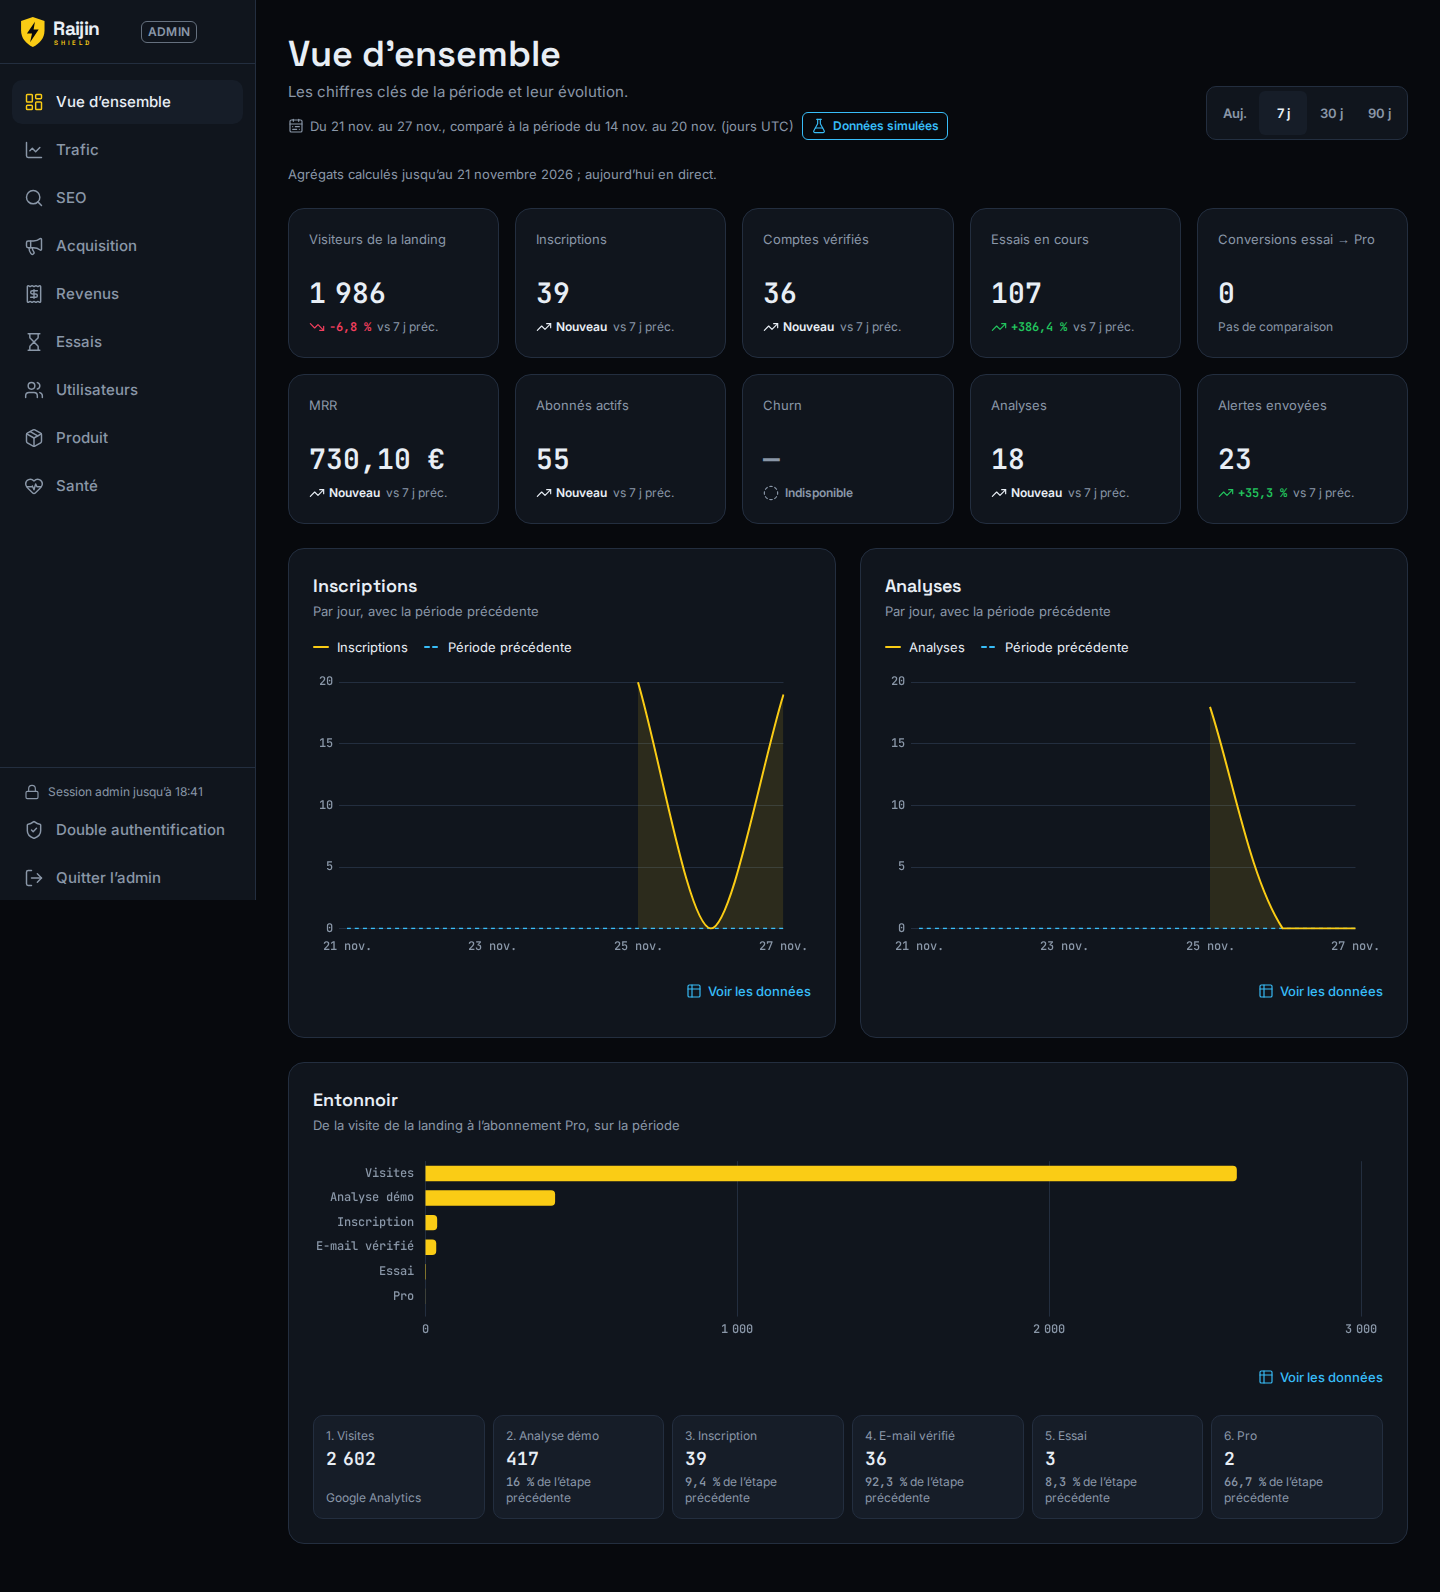
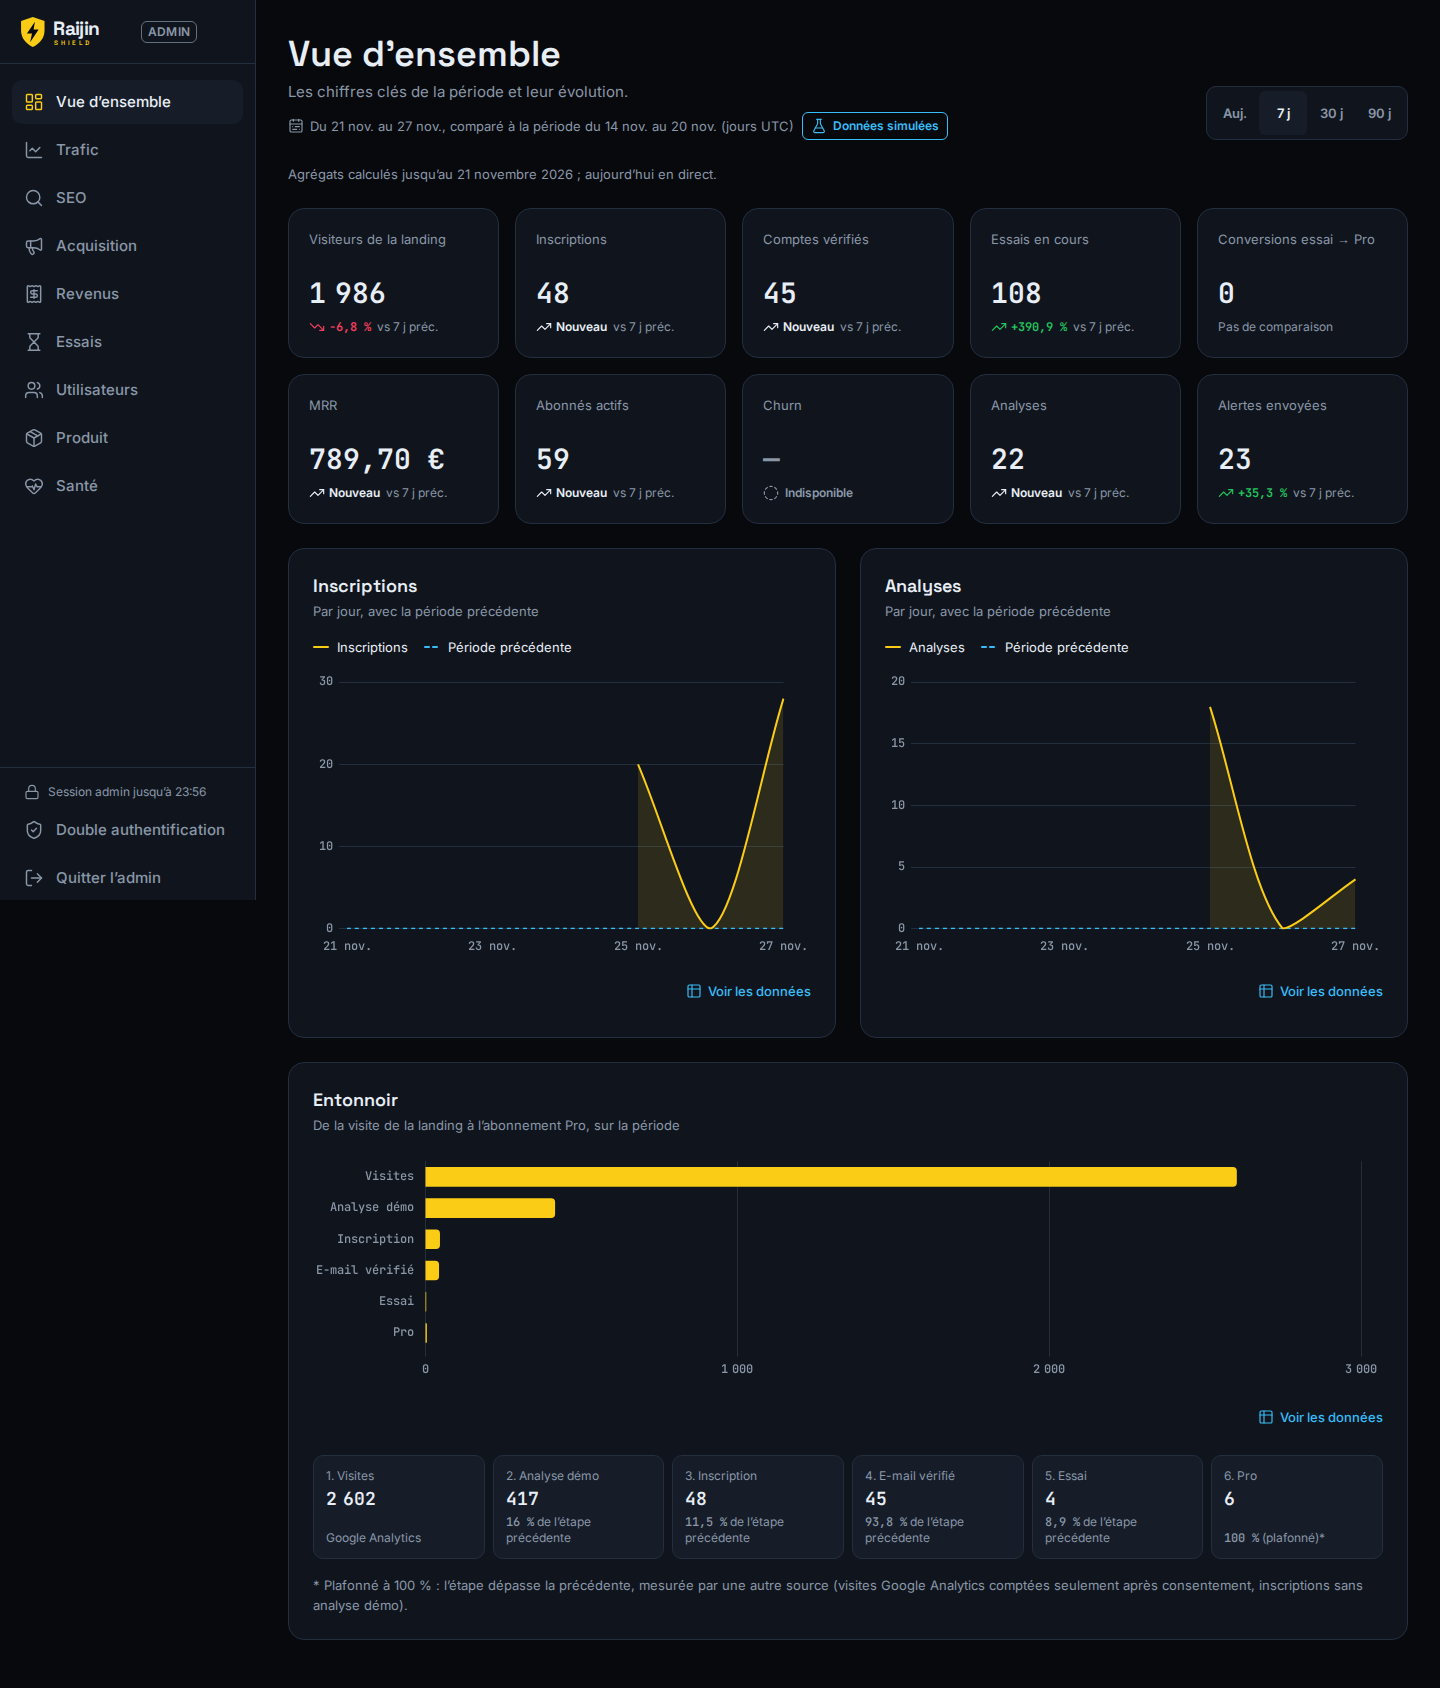
fix(admin): entonnoir avec ses 6 étapes à 320/390 px (autoSkip désactivé en horizontal, hauteur minimale), captures refaites

diff --git a/libs/web/feature-admin/src/lib/ui/ui.spec.ts b/libs/web/feature-admin/src/lib/ui/ui.spec.ts
@@ -2,7 +2,7 @@ import { Component, signal } from '@angular/core';
 import { TestBed } from '@angular/core/testing';
 import { type AdminKpi } from '@raijin/shared-contracts';
 import { RjChart } from './chart/chart';
-import { buildChartConfig, horizontalLabelChars, readChartTheme, wrapCategoryLabel, summarizeChart, timeSeriesToChart, type RjChartDataset, type RjChartTheme } from './chart/chart-config';
+import { buildChartConfig, horizontalChartMinHeight, horizontalLabelChars, readChartTheme, wrapCategoryLabel, summarizeChart, timeSeriesToChart, type RjChartDataset, type RjChartTheme } from './chart/chart-config';
 import { RJ_CHART_LOADER } from './chart/chart-loader';
 import { RjDataTable, resolveRowLink, type RjTableColumn } from './data-table';
 import { breakSegments } from './break-text';
@@ -464,5 +464,29 @@ describe('lisibilité à 320 px (aucune troncature)', () => {
     expect(config.data.labels).toEqual([['(direct ou', 'inconnu)'], ['google']]);
     const title = (config.options?.plugins?.tooltip?.callbacks as { title: (items: { dataIndex: number; label: string }[]) => string }).title;
     expect(title([{ dataIndex: 0, label: '(direct ou,inconnu)' }])).toBe('(direct ou inconnu)');
+  });
+
+  it('entonnoir horizontal : 6 étapes toutes affichées (autoSkip coupé), hauteur suffisante à 320 et 390 px', () => {
+    const steps = ['Visites', 'Analyse démo', 'Inscription', 'E-mail vérifié', 'Essai', 'Pro'];
+    for (const width of [288, 358]) {
+      const config = buildChartConfig(
+        { type: 'bar', horizontal: true, width, unit: 'count', labels: steps, datasets: [{ label: 'Personnes', data: [120, 60, 30, 20, 10, 5], tone: 'primary' }] },
+        THEME,
+        true,
+      );
+      const y = (config.options?.scales as Record<string, { ticks: { autoSkip: boolean; maxTicksLimit?: number } }>)['y'];
+      expect(y?.ticks.autoSkip).toBe(false);
+      expect(y?.ticks.maxTicksLimit).toBeUndefined();
+      const labels = config.data.labels as string[][];
+      expect(labels).toHaveLength(6);
+      // Aucun caractère perdu : chaque libellé recomposé est identique à l'original.
+      expect(labels.map((lines) => lines.join(' '))).toEqual(steps);
+      // Au moins 32 px par étape + l'axe : plus que les 192 px du cadre « sm ».
+      expect(horizontalChartMinHeight(steps, width)).toBeGreaterThanOrEqual(6 * 32 + 40);
+      expect(horizontalChartMinHeight(steps, width)).toBeGreaterThan(192);
+    }
+    // Graphiques verticaux (axe du temps) : graduations toujours espacées automatiquement.
+    const line = buildChartConfig({ type: 'line', labels: ['a', 'b'], datasets: [{ label: 'x', data: [1, 2], tone: 'primary' }], unit: 'count', width: 288 }, THEME, true);
+    expect((line.options?.scales as Record<string, { ticks: { autoSkip: boolean } }>)['x']?.ticks.autoSkip).toBe(true);
   });
 });

diff --git a/libs/web/feature-admin/src/lib/ui/chart/chart-config.ts b/libs/web/feature-admin/src/lib/ui/chart/chart-config.ts
@@ -136,6 +136,20 @@ export function horizontalLabelChars(width: number | undefined): number {
   return 28;
 }
 
+/**
+ * Hauteur minimale (px) d'un graphique à barres horizontales : chaque catégorie garde la place de son libellé
+ * découpé (interligne 1,2 de Chart.js + marge) et d'une barre lisible, plus l'axe des valeurs. Avec
+ * `autoSkip: false`, aucun libellé n'est masqué (6 étapes de l'entonnoir toutes visibles à 320 px).
+ */
+export function horizontalChartMinHeight(labels: readonly string[], width: number | undefined, labelSize = 12): number {
+  const chars = horizontalLabelChars(width);
+  const rows = labels.reduce((sum, label) => {
+    const lines = wrapCategoryLabel(label, chars).length;
+    return sum + Math.max(32, Math.ceil(lines * labelSize * 1.2) + 14);
+  }, 0);
+  return rows + 40;
+}
+
 /** Configuration Chart.js complète, thémée par les tokens. Pure : testée sans canvas. */
 export function buildChartConfig(input: RjChartInput, theme: RjChartTheme, reducedMotion: boolean): ChartConfiguration {
   const format = (value: number | null) => formatMetric(value, input.unit, { currency: input.currency });
@@ -248,7 +262,9 @@ export function buildChartConfig(input: RjChartInput, theme: RjChartTheme, reduc
       color: theme.inkMuted,
       font: tickFont,
       maxRotation: 0,
-      autoSkip: true,
+      // Barres horizontales : chaque catégorie est une étape ou une source à lire, jamais masquée (la hauteur
+      // du cadre suit `horizontalChartMinHeight`). Axe du temps des graphiques verticaux : graduations espacées.
+      autoSkip: !horizontal,
       autoSkipPadding: 8,
       maxTicksLimit: horizontal ? undefined : categoryTickLimit(input.width),
     },

diff --git a/libs/web/feature-admin/src/lib/ui/chart/chart.ts b/libs/web/feature-admin/src/lib/ui/chart/chart.ts
@@ -21,6 +21,7 @@ import { NO_VALUE, formatMetric } from '../format';
 import {
   buildChartConfig,
   categoryTickLimit,
+  horizontalChartMinHeight,
   readChartTheme,
   summarizeChart,
   type RjChartDataset,
@@ -101,7 +102,7 @@ interface LegendItem {
           }
         </ul>
       }
-      <div #frame [class]="'relative min-w-0 ' + heightClass()">
+      <div #frame [class]="'relative min-w-0 ' + heightClass()" [style.min-height.px]="minHeight()">
         <canvas #canvas role="img" [attr.aria-label]="ariaLabel()" class="block size-full">{{ ariaLabel() }}</canvas>
         @if (state() === 'loading') {
           <rj-skeleton shape="block" class="absolute inset-0" />
@@ -188,6 +189,10 @@ export class RjChart {
   private readonly tickBucket = computed(() => categoryTickLimit(this.width()));
 
   protected readonly heightClass = computed(() => HEIGHTS[this.height()]);
+  /** Barres horizontales : hauteur suffisante pour afficher chaque catégorie (aucun libellé masqué). */
+  protected readonly minHeight = computed(() =>
+    this.type() === 'bar' && this.horizontal() ? horizontalChartMinHeight(this.labels(), this.width()) : null,
+  );
 
   protected readonly ariaLabel = computed(
     () =>
